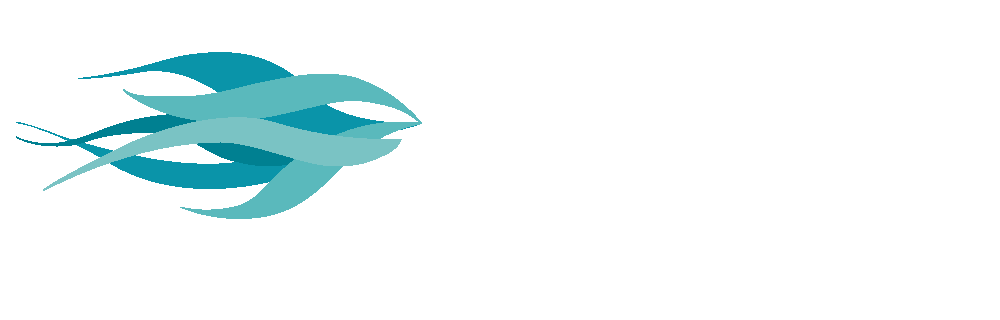
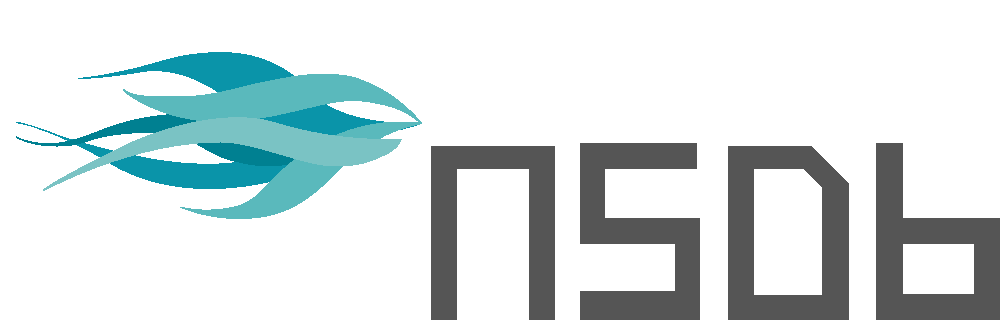
navbar

Changed region(s): [[0.434, 0.4375, 1.0, 1.0]]

diff --git a/_includes/navbar.html b/_includes/navbar.html
@@ -1,28 +1,28 @@
 <nav class="navbar navbar-expand-md navbar-dark fixed-top bg-dark">
-    <a class="navbar-brand" href="#">NSDB</a>
+    <a class="navbar-brand" href="#">
+      <img src="assets/images/NSDB-orizz-nega.png" alt="">
+    </a>
     <button class="navbar-toggler" type="button" data-toggle="collapse" data-target="#navbarsExampleDefault" aria-controls="navbarsExampleDefault" aria-expanded="false" aria-label="Toggle navigation">
       <span class="navbar-toggler-icon"></span>
     </button>
   
     <div class="collapse navbar-collapse justify-content-end" id="navbarsExampleDefault">
       <ul class="navbar-nav">
-        <li class="nav-item active">
-          <a class="nav-link" href="#">Home <span class="sr-only">(current)</span></a>
+        <li class="nav-item">
+          <a class="nav-link" href="#">Product</a>
         </li>
         <li class="nav-item">
-          <a class="nav-link" href="#">Link</a>
-        </li>
-        <li class="nav-item dropdown">
-          <a class="nav-link dropdown-toggle" href="#" id="dropdown01" data-toggle="dropdown" aria-haspopup="true" aria-expanded="false">Dropdown</a>
-          <div class="dropdown-menu" aria-labelledby="dropdown01">
-            <a class="dropdown-item" href="#">Action</a>
-            <a class="dropdown-item" href="#">Another action</a>
-            <a class="dropdown-item" href="#">Something</a>
-          </div>
+            <a class="nav-link" href="#">Learn</a>
         </li>
         <li class="nav-item">
-            <a class="nav-link" href="#">Link</a>
-          </li>
+          <a class="nav-link" href="#">Community</a>
+        </li>
+        <li class="nav-item">
+            <a class="nav-link" href="#">Roadmap</a>
+        </li>
+        <li class="nav-item">
+          <a class="nav-link" href="#">Contact Us</a>
+      </li>
       </ul>
     </div>
   </nav>

diff --git a/css/custom/_base.scss b/css/custom/_base.scss
@@ -3,6 +3,12 @@ body {
     font-family:$font-family-monospace;
     -webkit-font-smoothing:antialiased;
 
+    .navbar {
+        img {
+            height: 30px;
+        }
+    }
+
     h1 {
         font-family:$font-family-sans-serif;
         font-size: 3.2rem;

diff --git a/css/custom/_card.scss b/css/custom/_card.scss
@@ -23,5 +23,9 @@
     margin: 2rem auto 1rem;
     max-width: 400px;
     color: $secondary;
+    &:hover {
+      background: $secondary;
+      color: $white;
+    }
   }
 }

diff --git a/css/custom/_buttons.scss b/css/custom/_buttons.scss
@@ -17,5 +17,9 @@
 
   &.btn-negative {
     color: $rdb-white;
+    &:hover {
+      color: $primary;
+      background: $white;
+    }
   }
 }
